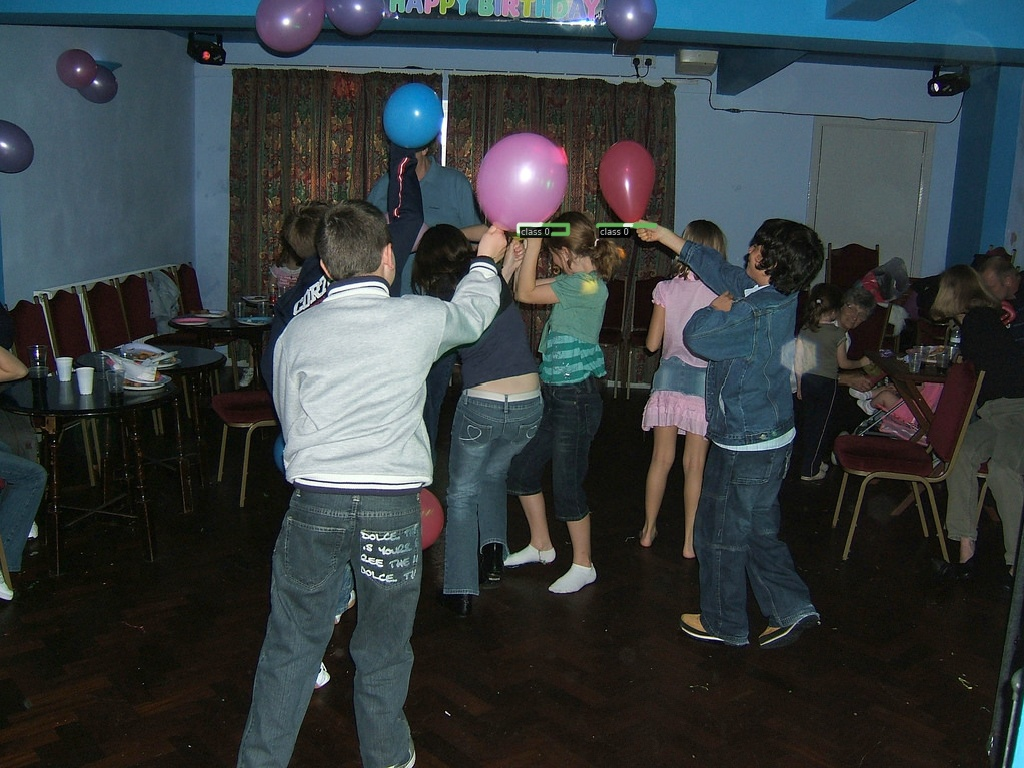
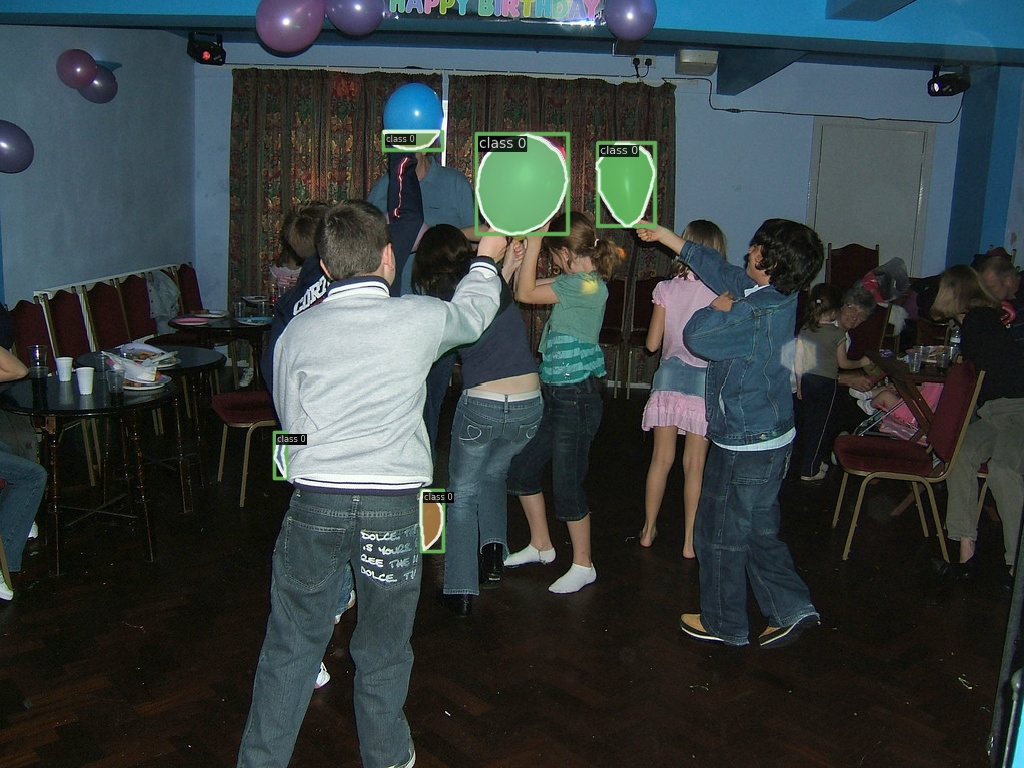
'暂存demo'

Changed region(s): [[0.375, 0.1562, 0.6562, 0.3125], [0.4062, 0.625, 0.4375, 0.7188], [0.25, 0.5625, 0.3125, 0.625]]

diff --git a/demo.py b/demo.py
@@ -116,10 +116,11 @@ def build_data_preprocess():
     return pipeline
 
 
-def get_labels(img_path=r'E:\Code Camp 2\data\balloon\train\154446334_5d41cd1375_b.jpg'):
+def get_labels(img_path=None):
     with open(r'../data/balloon_dataset/annotations/trainval.json', "r", encoding="utf-8") as f:
         labels = json.load(f)
-    # print('a')
+    if not img_path:
+        img_path = r'E:\Code Camp 2\data\balloon\train\154446334_5d41cd1375_b.jpg'
     all_label = {}
     for i in labels['annotations']:
         img_id = i['image_id']
@@ -152,13 +153,15 @@ def get_labels(img_path=r'E:\Code Camp 2\data\balloon\train\154446334_5d41cd1375
 
 
 def main():
-    data_infos = get_labels()
+    save_path = './out'
+    img_paths = [r'E:\Code Camp 2\data\balloon\train\154446334_5d41cd1375_b.jpg',
+                 r'E:\Code Camp 2\data\balloon\train\7488015492_0583857ca0_k.jpg']
+    data_infos = get_labels(img_paths)
     vis = DetLocalVisualizer()
     pipeline = build_data_preprocess()
     print(pipeline)
 
     for data_info in data_infos:
-
         pre_result = pipeline(data_info)
         data_samples = pre_result['data_samples']
         reverse = Reverse(data_samples)
@@ -168,6 +171,7 @@ def main():
         data_samples.gt_instances.bboxes = bboxes
         segs = data_samples.gt_instances.masks.masks
         img_path = data_info['img_path']
+        img_name = img_path.split('/')[-1]
         # 683,1024-> 548 824 -> 548 640 -> 640 640
         # ori_size-> resize -> crop => pad
 
@@ -175,10 +179,10 @@ def main():
         img = tensor2numpy(img)
         img = mmcv.rgb2bgr(img)
         vis.add_datasample(name='', image=img, data_sample=data_samples, draw_pred=False, show=False,
-                           out_file='数据增强.jpg')
+                           out_file='./{}/{}_数据增强.jpg'.format(save_path,img_name.split('.')[0]))
 
         bboxes, segs = reverse.reverse_preprocess(bboxes, segs)
-        print(bboxes)
+        # print(bboxes)
         data_samples.gt_instances.bboxes = bboxes
         data_samples.gt_instances.masks.masks = segs
         # print(segs.shape)
@@ -186,10 +190,10 @@ def main():
         img = reverse.reverse_img(img)
 
         vis.add_datasample(name='', image=img, data_sample=data_samples, draw_pred=False, show=False,
-                           out_file='还原.jpg')
+                           out_file='./{}/{}_还原.jpg'.format(save_path,img_name.split('.')[0]))
         vis.add_datasample(name='', image=mmcv.rgb2bgr(mmcv.imread(img_path)), data_sample=data_samples,
                            draw_pred=False, show=False,
-                           out_file='还原_原图.jpg')
+                           out_file='./{}/{}_还原_原图.jpg'.format(save_path,img_name.split('.')[0]))
 
 
 if __name__ == '__main__':
